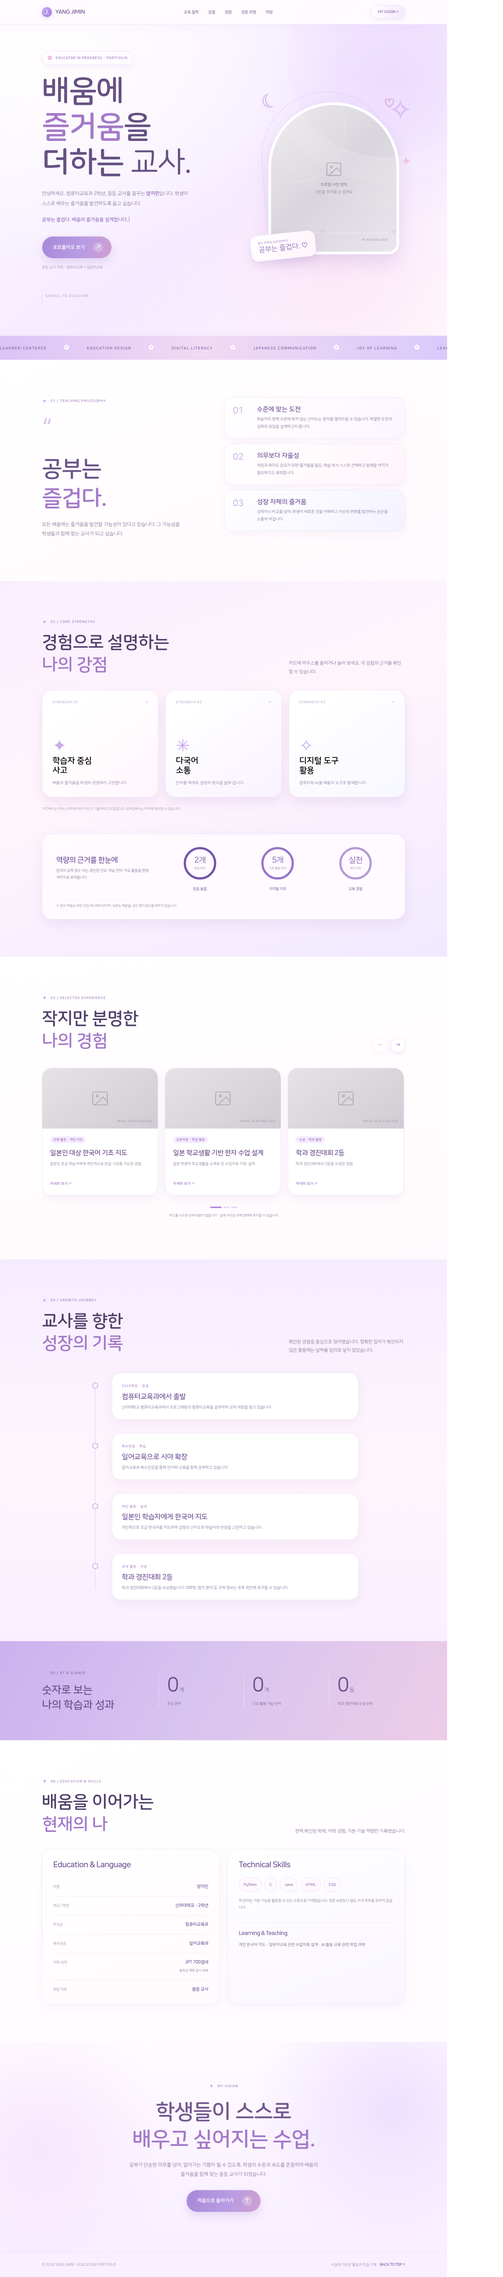
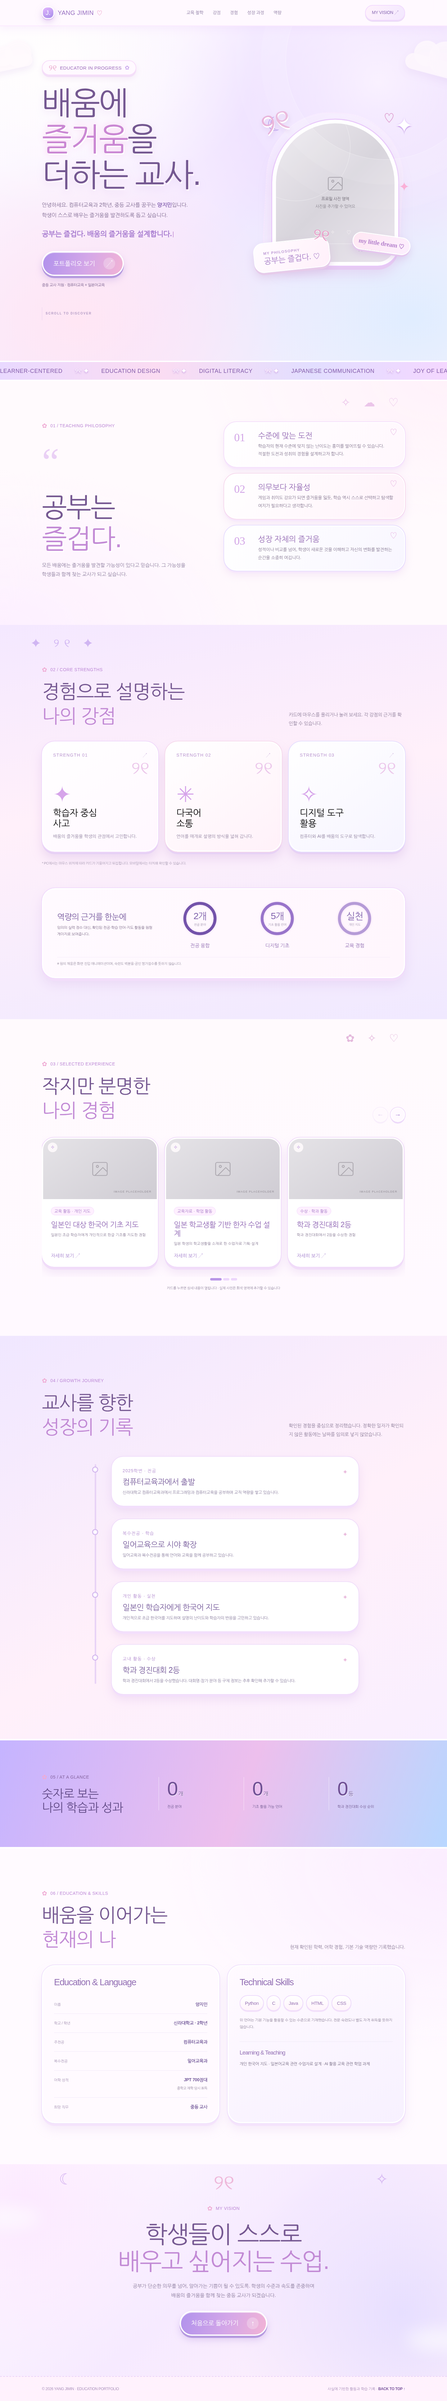
Add files via upload

diff --git a/index.html b/index.html
@@ -8,7 +8,7 @@
   <title>양지민 | 교육을 즐거움으로 만드는 예비 교사</title>
   <link rel="preconnect" href="https://fonts.googleapis.com" />
   <link rel="preconnect" href="https://fonts.gstatic.com" crossorigin />
-  <link href="https://fonts.googleapis.com/css2?family=Gowun+Dodum&family=Jua&family=Nunito:wght@400;500;600;700;800;900&display=swap" rel="stylesheet" />
+  <link href="https://fonts.googleapis.com/css2?family=Dongle:wght@400;700&family=Gaegu:wght@400;700&family=Gowun+Dodum&family=Jua&family=Nunito:wght@400;500;600;700;800;900&display=swap" rel="stylesheet" />
   <style>
     :root {
       --bg: #f8f6fc;
@@ -535,6 +535,244 @@
     .modal-content h2, .gauges-intro h3 { font-weight: 700; }
     @media (prefers-reduced-motion: reduce) { .dream-float { animation: none; } }
 
+
+    /*  ✧  DREAMY PASTEL CANDY EDITION  ✧
+        Extra-yumekawa makeover: puffy layers / bows / clouds / dreamy stickers.
+        All interactivity, responsive layout, and grey photo placeholders retained. */
+    :root {
+      --bg: #fff7ff;
+      --white: #ffffff;
+      --ink: #67517f;
+      --muted: #82718d;
+      --purple: #ad78dc;
+      --purple-dark: #78539b;
+      --lilac: #edddff;
+      --pale: #fbecff;
+      --line: #f3ddfb;
+      --shadow: 0 20px 50px rgba(173,121,217,.18), 0 6px 17px rgba(238,181,226,.13);
+      --serif: "Jua", "Arial Rounded MT Bold", "Malgun Gothic", sans-serif;
+      --sans: "Gowun Dodum", "Apple SD Gothic Neo", "Malgun Gothic", sans-serif;
+    }
+    body {
+      background: radial-gradient(circle at 15% 10%, #fff 0%, transparent 27%),
+                  radial-gradient(circle at 86% 25%, #faebff 0%, transparent 37%),
+                  linear-gradient(145deg, #fff9ff, #fbf0ff 55%, #fff9fd);
+      color: var(--ink);
+    }
+    .container { position: relative; }
+    .site-header { background: rgba(255,248,255,.88); border-bottom: 2px solid #fbe7ff; box-shadow: 0 9px 24px #e6bdf831; }
+    .nav { height: 82px; }
+    .logo { font-family: "Jua",sans-serif; font-weight: 400; font-size: 20px; color: #9870c1; letter-spacing: .015em; }
+    .logo::after { content: "♡"; font: 21px "Gaegu",sans-serif; margin-left: -2px; color: #ee9ec9; }
+    .logo-mark { width: 40px; height: 40px; background: linear-gradient(155deg,#e4b8ff,#a58be8); border: 3px solid white; border-radius: 17px; box-shadow: 0 4px 0 #e3c7f4, 0 9px 20px #cda7e680; }
+    .nav-contact { background: linear-gradient(115deg, #fff2fc, #f3e8ff); border: 2px solid #f2d8ff; box-shadow: 0 4px 0 #ecdcf7; font-family: "Jua",sans-serif; font-weight: 400; font-size: 14px; }
+    .nav-links a { font-family: "Jua", sans-serif; font-weight: 400; font-size: 14px; }
+    .nav-links a:hover { color: #ca79c8; }
+    .hero {
+      min-height: 760px;
+      background:
+        radial-gradient(ellipse at 11% 10%, #fffefe 0%, transparent 37%),
+        radial-gradient(ellipse at 84% 25%, #e8d9ff 0%, transparent 41%),
+        radial-gradient(ellipse at 17% 88%, #ffe6f4 0%, transparent 40%),
+        radial-gradient(ellipse at 92% 87%, #e0edff 0%, transparent 45%),
+        linear-gradient(130deg,#fffbff 0%,#f3e7ff 55%,#fff4fa 100%);
+      padding-top: 110px;
+      padding-bottom: 130px;
+      isolation: isolate;
+    }
+    .hero::before { z-index: -2; width: 960px; height: 960px; top: -300px; right: -260px; background: radial-gradient(circle,#fff9ffb8,transparent 64%); }
+    .hero::after { content: ""; pointer-events: none; position: absolute; z-index: 0; top: auto; left: 0; right: 0; bottom: -1px; height: 38px; background: radial-gradient(circle at 26px -12px, transparent 33px, #fff9ff 34px) 0 0/64px 66px repeat-x; opacity: .95; }
+    .dream-scene { position: absolute; inset: 0; z-index: -1; overflow: hidden; pointer-events: none; }
+    .fluffy-cloud { position: absolute; display: block; width: 165px; height: 48px; border-radius: 999px; background: #fffafdec; filter: drop-shadow(0 13px 12px #cbabe536); animation: cloud-float 9s ease-in-out infinite alternate; }
+    .fluffy-cloud::before,.fluffy-cloud::after { content:""; position:absolute; display:block; background: inherit; border-radius:50%; }
+    .fluffy-cloud::before { width: 77px; height: 77px; left: 19px; bottom: 18px; }
+    .fluffy-cloud::after { width: 103px; height: 103px; left: 64px; bottom: 4px; }
+    .cloud-a { left: -46px; top: 95px; opacity: .91; transform: rotate(-12deg) scale(.84); }
+    .cloud-b { right: -35px; top: 105px; opacity: .8; transform: rotate(15deg) scale(1.08); animation-delay:-4s; }
+    .cloud-c { right: 23%; bottom: 25px; opacity: .76; transform: scale(.70); animation-delay:-6s; }
+    @keyframes cloud-float { from { translate: 0 -8px; } to { translate: 12px 12px; } }
+    .dream-sparkle,.dream-heart { position:absolute; line-height:1; color:#d3acf1; text-shadow: 0 4px 0 #fff7ff, 0 0 12px #fff; animation: charm-pulse 4.5s ease-in-out infinite alternate; }
+    .sparkle-a { top:19%; left: 6%; font-size:44px; }
+    .sparkle-b { top:16%; right:34%; font-size:22px; color:#f5abc9; animation-delay:-2s; }
+    .sparkle-c { bottom:19%; left:45%; font-size:35px; color:#b1bdf5; animation-delay:-3s; }
+    .sparkle-d { bottom:20%; right:3%; font-size:58px; color:#ebb6ea; animation-delay:-1s; }
+    .heart-a { right:8%; top:38%; font-size:43px; color:#f4a6c9; animation-delay:-2s; }
+    .heart-b { left:3%; bottom:31%; font-size:29px; color:#bfa0f4; }
+    @keyframes charm-pulse { from { opacity:.42; scale:.85; rotate:-10deg; } to { opacity:1; scale:1.12; rotate:9deg; } }
+    .hero-layout { z-index:2; }
+    .hero-intro { font-family:"Jua",sans-serif; font-size: 15px; font-weight: 400; letter-spacing:.025em; color:#9b6dba; padding:11px 20px; border:2px solid #f7dafa; background:#fff9ffed; box-shadow: 0 6px 0 #f3dff8, 0 10px 20px #e4c9e854; }
+    .hero-intro::before { display:none; }
+    .hero-intro > span:first-child { font-family:"Gaegu",sans-serif; font-size:25px; line-height:0; color:#e8a4c9; }
+    .intro-flower { font-size:18px; color:#c9a7ed; }
+    .hero h1 { font-family: "Jua",sans-serif; font-weight:400; font-size: clamp(65px,7.1vw,104px); line-height:1.13; letter-spacing:-.042em; color:#745891; text-shadow: 3px 5px 0 #fff5ff, 0 9px 24px #d7b5e95e; }
+    .hero h1 em { font-family:"Jua",sans-serif; font-weight:400; }
+    .hero h1 .accent { color: #ca87d3; text-shadow:3px 4px 0 #fff, 0 0 23px #f9c9ee; }
+    .hero-description { font-size:17px; max-width:475px; color:#806b92; line-height:1.95; }
+    .type-line { font-family:"Gaegu",var(--sans); font-size: 23px; font-weight:700; color:#a477ce; min-height:41px; }
+    .primary-btn { font-family:"Jua",sans-serif; font-weight:400; font-size:20px; padding:17px 24px 17px 33px; border-radius:999px; border:4px solid #fff; background:linear-gradient(105deg,#b192ec 0%,#d4a7e8 54%,#f2b3d5 100%); box-shadow:0 7px 0 #b59adf,0 13px 22px #b692dd61, inset 0 2px 0 #ffffff98; }
+    .primary-btn:hover { background:linear-gradient(105deg,#a17ee6,#d997d5); box-shadow:0 5px 0 #a689d8,0 12px 26px #b692dd80; transform:translateY(2px); }
+    .primary-btn .arrow { width:38px; height:38px; background:#ffffff42; font-family:var(--sans); }
+    .hero-sub { color:#a58db1; font-weight:700; font-size:12px; }
+    .hero-art { padding:42px 22px 26px 40px; }
+    .hero-art::before { top:18px; left:18px; bottom:22px; right:8px; border:4px dotted #f8e9ff; border-radius:210px 210px 85px 85px; transform:rotate(3deg); background:linear-gradient(155deg,#ffffff4d,#ffeafa42); }
+    .hero-art::after { content:"✦"; top:26px; right:-26px; font-size:70px; color:#fff; text-shadow: 0 0 4px #d4aff8,0 5px 0 #d3b5ed; }
+    .portrait { height:470px; border:12px solid #fff; outline:3px solid #e8c8fa; background:linear-gradient(135deg,#eeeaf0,#d8d5dc 50%,#ebe6ee); border-radius:230px 230px 75px 75px; box-shadow:0 13px 0 #e6caf3,0 26px 42px #d7abe15c; }
+    .portrait::after { content:"♡     ✧     ♡"; position:absolute; bottom:80px; right:0; left:0; text-align:center; font-size:17px; color:#fffafa; opacity:.7; letter-spacing:16px; }
+    .portrait-label { border-color:#fff9; }
+    .hero-big-bow { position:absolute; z-index:5; left:4px; top:2px; font-family:"Gaegu",cursive; font-size:94px; line-height:1; color:#e8afd9; text-shadow:0 5px 0 white, 0 11px 15px #a97cc34d; transform:rotate(-18deg); animation:bow-bob 5s ease-in-out infinite alternate; }
+    @keyframes bow-bob { from { translate:0 -3px; rotate:-5deg; } to { translate:0 9px; rotate:3deg; } }
+    .hero-photo-sticker { position:absolute; z-index:4; right:-18px; bottom:69px; border:3px solid white; background:linear-gradient(120deg,#ffe7f3,#fceffe); box-shadow:0 5px 0 #e5c6ee,0 13px 25px #cdb0de77; font-family:"Gaegu",cursive; font-weight:700; font-size:20px; color:#b582cd; padding:7px 17px; border-radius:100px; transform:rotate(8deg); }
+    .art-note { left:-20px; bottom:13px; border:3px solid white; background:linear-gradient(130deg,#fffcff,#fff0fa); padding:24px 29px 17px; border-radius:31px; box-shadow:0 7px 0 #e6cbea,0 15px 29px #d4b2db7a; }
+    .art-note small { font-size:12px; }
+    .art-note strong { font-size:25px; color:#a57bc6; }
+    .art-note-bow { position:absolute; right:-8px; top:-35px; font-family:"Gaegu",cursive; color:#e99dc8; font-size:52px; line-height:1; transform:rotate(14deg); text-shadow:0 2px white; }
+    .dream-float-moon { font-size:62px; color:#b9a1ef; left:22px; top:0; }
+    .dream-float-star { color:#faabd4; right:-14px; top:41%; }
+    .dream-float-heart { color:#dc9acb; }
+    .scroll-marker { font-family:"Nunito",sans-serif; font-weight:900; color:#b29ac4; }
+    .marquee { padding:17px 0; border-top:4px solid #fff; border-bottom:4px solid #fff; color:#825ba9; background:linear-gradient(90deg,#e9d9ff,#fbdcf2 35%,#e2deff 70%,#f4d7ff); box-shadow:0 5px 0 #f2e5fa; }
+    .marquee-item { font: 18px "Jua",sans-serif; letter-spacing:.04em; padding-right:40px; }
+    .marquee-item::after { content:"୨୧ ✦"; color:white; font-size:20px; padding-left:40px; filter:drop-shadow(0 2px 2px #c59fdf); }
+    .section { padding-top:132px; padding-bottom:132px; }
+    .section-decoration { pointer-events:none; position:absolute; z-index:0; top:36px; right:max(30px,calc((100% - 1160px)/2)); font-family:"Gaegu",sans-serif; font-size:37px; color:#e5b5e4; letter-spacing:16px; opacity:.75; white-space:nowrap; animation:ornament-waver 7s ease-in-out infinite alternate; }
+    .section-decoration-b { color:#c4a4ef; left:7%; right:auto; top:25px; }
+    .section-decoration-c { color:#dba4d2; font-size:34px; top:30px; }
+    @keyframes ornament-waver { to { translate: 0 11px; } }
+    .eyebrow { font-family:"Jua",sans-serif; font-size:14px; font-weight:400; letter-spacing:.04em; color:#bb86d5; }
+    .eyebrow::before { content:"✿"; font-size:20px; color:#efabd4; }
+    .section-head h2,.large-quote,.closing-section h2,.stats-intro h2 { font-family:"Jua",sans-serif; font-weight:400; color:#765992; letter-spacing:-.03em; }
+    .section-head h2 { font-size:clamp(38px,4.6vw,61px); }
+    .section-head p { color:#8d7d99; }
+    .accent { color:#c28ad5; }
+    .philosophy-section { background:radial-gradient(ellipse at 1% 100%,#fdf0ff,transparent 45%),radial-gradient(ellipse at 100% 0%,#fff2fa,transparent 40%),#fffafd; }
+    .quote-mark { color:#ead0f5; font-family:"Gaegu",cursive; font-size:125px; }
+    .large-quote { font-size:clamp(60px,6vw,86px); line-height:1.17; text-shadow:3px 4px 0 #fff; }
+    .quote-summary { font-size:16px; }
+    .principles { gap:21px; }
+    .principle { position:relative; border:3px solid #fff; outline:2px solid #f4ddfb; border-radius:40px; padding:26px 29px; box-shadow:0 8px 0 #f7e8fc,0 13px 28px #ddbde549; background:linear-gradient(125deg,#fff,#fff7fd); }
+    .principle:nth-child(2) { outline-color:#f6d7ec; background:linear-gradient(125deg,#fff,#fff2fa); }
+    .principle:nth-child(3) { outline-color:#e5dbff; background:linear-gradient(125deg,#fff,#f8f6ff); }
+    .principle::after { content:"♡"; font:27px "Gaegu",cursive; position:absolute; right:22px; top:12px; color:#eac0e7; }
+    .principle-num { color:#d3a6e7; font:36px "Gaegu",cursive; }
+    .principle h3 { font:25px "Jua",sans-serif; font-weight:400; color:#956bb4; }
+    .principle p { font-size:14px; color:#83768f; }
+    .strengths-section { background:linear-gradient(170deg,#f4e8ff 0%,#fff0fa 43%,#f0e9ff 100%); }
+    .flip-card { height:355px; }
+    .flip-face { border-radius:41px; border:4px solid #fff; padding:32px; box-shadow:0 8px 0 #e7d1f5,0 21px 32px #cea9df57; }
+    .flip-front { background:linear-gradient(145deg,#fff,#fff7ff); outline:2px solid #efd7fb; }
+    .flip-card:nth-child(2) .flip-front { background:linear-gradient(145deg,#fff,#fff1f9); outline-color:#f6d8eb; }
+    .flip-card:nth-child(3) .flip-front { background:linear-gradient(145deg,#fff,#f6f4ff); outline-color:#e4ddff; }
+    .flip-front::after { content:"୨୧"; font:57px "Gaegu",cursive; position:absolute; top:49px; right:25px; color:#ecc8eb; }
+    .flip-back { background:linear-gradient(160deg,#a689de 0%,#bf99e2 54%,#e5addb 100%); }
+    .flip-id { font:14px "Jua",sans-serif; font-weight:400; color:#b995cf; }
+    .flip-symbol { font-family:"Gaegu",cursive; font-size:70px; color:#d6a4ea; }
+    .flip-front h3,.flip-back h3 { font:29px "Jua",sans-serif; font-weight:400; }
+    .flip-front p,.flip-back p { font-size:14px; }
+    .gauges-wrap { border:4px solid white; outline:2px solid #f0d9fc; border-radius:43px; background:linear-gradient(115deg,#fffaff,#fff6fd); box-shadow:0 9px 0 #f2defa,0 20px 36px #cfade34b; }
+    .gauges-intro h3 { font:26px "Jua",sans-serif; font-weight:400; }
+    .gauge .track { stroke:#f4e5f9; }
+    .gauge .progress { stroke-width:9; filter: drop-shadow(0 0 3px #e5beec9c); }
+    .gauge-center strong { font:30px "Jua",sans-serif; font-weight:400; }
+    .gauge-label { font-family:"Jua",sans-serif; font-weight:400; font-size:16px; color:#9471b4; }
+    .experience-section { background:linear-gradient(#fffafd,#fff9ff); }
+    .circle-btn { border:3px solid white; outline:2px solid #efdafb; box-shadow:0 5px 0 #eddbfa; background:#fff9ff; color:#a982d4; }
+    .circle-btn:hover:not(:disabled) { background:#b596e1; }
+    .exp-card { border:4px solid white; outline:2px solid #f0dafa; border-radius:39px; box-shadow:0 9px 0 #f1ddf9,0 18px 32px #d2aee449; }
+    .exp-card:hover { transform:translateY(-9px) rotate(-1deg); box-shadow:0 12px 0 #edcff2,0 25px 38px #d2aee46b; }
+    .exp-content h3 { font:24px "Jua",sans-serif; font-weight:400; color:#9168b5; }
+    .exp-tag { border:1px solid #efd5fc; background:#fff0ff; color:#a277c5; font-family:"Jua",sans-serif; font-size:13px; font-weight:400; }
+    .exp-photo::before { content:"✧"; display:grid; place-items:center; position:absolute; z-index:1; top:12px; left:15px; width:31px; height:31px; background:#fffafcdc; border-radius:50%; color:#b88fda; font-size:17px; }
+    .card-link { font:15px "Jua",sans-serif; font-weight:400; }
+    .carousel-dot { height:8px; border-radius:999px; background:#edd7fc; }
+    .carousel-dot.active { background:#b996e7; }
+    .timeline-section { background:linear-gradient(150deg,#f0e7ff,#fff0fa 56%,#f9efff); }
+    .timeline-rail { width:5px; background:#e8d3f6; border-radius:99px; }
+    .timeline-line { background:linear-gradient(#b699ed,#e5acd9); }
+    .timeline-body { border:4px solid #fff; outline:2px solid #efdcfa; border-radius:37px; box-shadow:0 8px 0 #f3dffc,0 16px 30px #cba8e145; }
+    .timeline-body::before { content:"✦"; color:#e9b9dc; float:right; font-size:20px; }
+    .timeline-time { font-family:"Jua",sans-serif; font-size:14px; font-weight:400; }
+    .timeline-body h3 { font:25px "Jua",sans-serif; font-weight:400; }
+    .stats-section { background:linear-gradient(110deg,#c5b4ff,#edbfed 54%,#b8d7ff); color:#604985; padding:106px 0; border-top:5px solid #fff; border-bottom:5px solid #fff; }
+    .stats-section::before { border-color:#fff8; }
+    .stats-intro h2 { color:#624b87; font:38px "Jua",sans-serif; }
+    .stat-value { font-family:"Jua",sans-serif; font-weight:400; color:#6f4f94; text-shadow:1px 2px 0 #ffffffb5; }
+    .stat-unit,.stat-label { color:#765f95; }
+    .education-section { background:radial-gradient(ellipse at 100% 5%,#fbedff,transparent 45%),#fffaff; }
+    .information-card { border:4px solid #fff; outline:2px solid #efdffc; border-radius:42px; background:#fffaff; box-shadow:0 9px 0 #f5e4fc,0 20px 33px #d7bde641; }
+    .information-card:nth-child(2) { background:linear-gradient(155deg,#fffaff,#f7f1ff); }
+    .information-card h3 { font:29px "Jua",sans-serif; font-weight:400; color:#9370b4; }
+    .skill-tag { background:linear-gradient(#fff,#fff3fb); border:2px solid #ecd7fb; border-radius:100px; font-family:"Jua",sans-serif; font-size:15px; font-weight:400; color:#9874b4; box-shadow:0 3px 0 #f5e4fb; }
+    .closing-section { position:relative; overflow:hidden; background:radial-gradient(circle at 5% 20%,#fce9ff,transparent 34%),radial-gradient(circle at 90% 70%,#e7dfff,transparent 39%),linear-gradient(140deg,#fffaff,#f6eaff 50%,#fff1fb); }
+    .closing-section::before,.closing-section::after { content:""; width:200px; height:70px; position:absolute; background:#fff9; border-radius:50%; filter:blur(26px); }
+    .closing-section::before { top:20%; left:-70px; }
+    .closing-section::after { bottom:12%; right:-70px; }
+    .closing-decor { display:flex; gap:75px; position:absolute; inset:20px 0 auto; justify-content:space-around; pointer-events:none; font:49px "Gaegu",sans-serif; color:#d2b0f0; opacity:.9; }
+    .closing-decor span:nth-child(2) { color:#edb3d6; font-size:66px; }
+    .closing-section h2 { font:clamp(47px,6vw,76px) "Jua",sans-serif; font-weight:400; }
+    .footer { background:#fff2fd; border-top:2px dashed #e9cff8; }
+    .modal-panel { border:5px solid white; outline:2px solid #eacff6; border-radius:43px; }
+    .modal-content h2 { font:36px "Jua",sans-serif; font-weight:400; }
+    .modal-caution { border-radius:23px; }
+    .mobile-menu-button { border-radius:16px; background:#fff7ff; }
+    @media (max-width:1050px) { .hero h1 { font-size:clamp(58px,7vw,85px); } .hero-art { padding-left:23px; } .hero-big-bow { font-size:70px; } }
+    @media (max-width:760px) {
+      .hero { min-height:0; padding:78px 0 98px; }
+      .hero-layout { gap:40px; }
+      .hero h1 { font-size:clamp(54px,12.2vw,77px); }
+      .hero-intro { font-size:12px; padding:9px 14px; }
+      .hero-description { font-size:15px; }
+      .type-line { font-size:20px; min-height:38px; }
+      .primary-btn { font-size:18px; padding:14px 18px 14px 25px; }
+      .portrait { height:410px; }
+      .hero-art { padding:24px 16px 26px 24px; }
+      .hero-big-bow { left:0; top:-7px; font-size:67px; }
+      .hero-photo-sticker { right:-2px; font-size:17px; padding:5px 12px; bottom:70px; }
+      .art-note { left:0; bottom:10px; padding:19px 19px 12px; }
+      .art-note strong { font-size:21px; }
+      .art-note-bow { font-size:41px; }
+      .fluffy-cloud { transform:scale(.62); }
+      .cloud-c { right:-25px; bottom:12px; }
+      .sparkle-a { left:75%; top:10%; }
+      .sparkle-c { left:8%; bottom:21%; }
+      .section { padding-top:92px; padding-bottom:92px; }
+      .section-decoration { top:12px; right:12px; font-size:22px; letter-spacing:9px; }
+      .section-decoration-b { left:auto; }
+      .section-head h2 { font-size:40px; }
+      .large-quote { font-size:61px; }
+      .principle { border-radius:32px; padding:20px 22px; }
+      .principle h3 { font-size:23px; }
+      .flip-card { height:312px; }
+      .flip-face { padding:25px; border-radius:34px; }
+      .flip-front h3,.flip-back h3 { font-size:28px; }
+      .gauges-wrap { border-radius:35px; }
+      .timeline-body { border-radius:29px; }
+      .stats-intro h2 { font-size:34px; }
+      .stat-value { font-size:42px; }
+      .information-card { border-radius:33px; }
+      .closing-section h2 { font-size:clamp(39px,8vw,58px); }
+      .closing-decor { gap:20px; font-size:33px; }
+      .closing-decor span:nth-child(2) { font-size:44px; }
+    }
+    @media (max-width:420px) {
+      .nav-contact { display:none; }
+      .nav { justify-content: space-between; }
+      .mobile-menu-button { margin-left:auto; flex-shrink:0; }
+      .logo { min-width:0; }
+      .hero h1 { font-size:clamp(49px,13vw,58px); }
+      .hero-intro { font-size:11px; }
+      .portrait { height:350px; }
+      .hero-photo-sticker { font-size:15px; }
+      .hero-big-bow { font-size:60px; }
+      .art-note strong { font-size:19px; }
+      .principle { padding:21px 18px; }
+      .principle h3 { font-size:21px; }
+      .flip-card { height:305px; }
+      .flip-front h3,.flip-back h3 { font-size:25px; }
+      .gauge-center strong { font-size:23px; }
+    }
+    @media (prefers-reduced-motion:reduce) {
+      .fluffy-cloud,.dream-sparkle,.dream-heart,.hero-big-bow,.section-decoration { animation:none !important; }
+    }
   </style>
 </head>
 <body>
@@ -559,13 +797,19 @@
       <a href="#experience">경험</a>
       <a href="#timeline">성장 과정</a>
       <a href="#education">역량</a>
+      <a href="#closing">교사로서의 목표</a>
     </nav>
   </header>
   <main id="main">
     <section class="hero" id="top" aria-labelledby="heroHeading">
+      <div class="dream-scene" aria-hidden="true">
+        <span class="fluffy-cloud cloud-a"></span><span class="fluffy-cloud cloud-b"></span><span class="fluffy-cloud cloud-c"></span>
+        <span class="dream-sparkle sparkle-a">✧</span><span class="dream-sparkle sparkle-b">✦</span><span class="dream-sparkle sparkle-c">⋆</span>
+        <span class="dream-sparkle sparkle-d">✧</span><span class="dream-heart heart-a">♡</span><span class="dream-heart heart-b">♡</span>
+      </div>
       <div class="container hero-layout">
         <div>
-          <div class="hero-intro">EDUCATOR IN PROGRESS · PORTFOLIO</div>
+          <div class="hero-intro"><span aria-hidden="true">୨୧</span> EDUCATOR IN PROGRESS <span class="intro-flower" aria-hidden="true">✿</span></div>
           <h1 id="heroHeading">배움에<br /><span class="accent">즐거움</span>을<br />더하는 <em>교사.</em></h1>
           <p class="hero-description">안녕하세요. 컴퓨터교육과 2학년, 중등 교사를 꿈꾸는 <strong>양지민</strong>입니다. 학생이 스스로 배우는 즐거움을 발견하도록 돕고 싶습니다.</p>
           <p class="type-line"><span id="typingText" aria-label="공부는 즐겁다. 배움의 즐거움을 설계합니다."></span><span class="cursor" aria-hidden="true"></span></p>
@@ -574,6 +818,8 @@
           <div class="scroll-marker">Scroll to discover</div>
         </div>
         <div class="hero-art" aria-label="프로필 사진을 넣을 수 있는 회색 자리표시자">
+          <span class="hero-big-bow" aria-hidden="true">୨୧</span>
+          <span class="hero-photo-sticker" aria-hidden="true">my little dream ♡</span>
           <div class="portrait">
             <div class="portrait-placeholder">
               <svg width="54" height="54" viewBox="0 0 24 24" fill="none" stroke="currentColor" stroke-width="1.2" stroke-linecap="round" stroke-linejoin="round" aria-hidden="true"><rect x="2" y="3" width="20" height="18" rx="2"/><circle cx="8.5" cy="8.5" r="1.5"/><path d="m21 15-5-5L5 21"/></svg>
@@ -584,7 +830,7 @@
           <span class="dream-float dream-float-moon" aria-hidden="true">☾</span>
           <span class="dream-float dream-float-star" aria-hidden="true">✦</span>
           <span class="dream-float dream-float-heart" aria-hidden="true">♡</span>
-          <div class="art-note"><small>MY PHILOSOPHY</small><strong>공부는 즐겁다. ♡</strong></div>
+          <div class="art-note"><span class="art-note-bow" aria-hidden="true">୨୧</span><small>MY PHILOSOPHY</small><strong>공부는 즐겁다. ♡</strong></div>
         </div>
       </div>
     </section>
@@ -595,6 +841,7 @@
       </div>
     </div>
     <section class="section philosophy-section" id="philosophy" aria-labelledby="philosophyHeading">
+      <div class="section-decoration section-decoration-a" aria-hidden="true">✧ ☁ ♡</div>
       <div class="container philosophy-grid">
         <div class="reveal">
           <div class="eyebrow">01 / Teaching Philosophy</div>
@@ -610,6 +857,7 @@
       </div>
     </section>
     <section class="section strengths-section" id="strengths" aria-labelledby="strengthsHeading">
+      <div class="section-decoration section-decoration-b" aria-hidden="true">✦ ୨୧ ✦</div>
       <div class="container">
         <div class="section-head reveal"><div><div class="eyebrow">02 / Core Strengths</div><h2 id="strengthsHeading">경험으로 설명하는<br /><span class="accent">나의 강점</span></h2></div><p>카드에 마우스를 올리거나 눌러 보세요. 각 강점의 근거를 확인할 수 있습니다.</p></div>
         <div class="strength-grid">
@@ -628,6 +876,7 @@
       </div>
     </section>
     <section class="section experience-section" id="experience" aria-labelledby="experienceHeading">
+      <div class="section-decoration section-decoration-c" aria-hidden="true">✿ ✧ ♡</div>
       <div class="container">
         <div class="section-head reveal"><div><div class="eyebrow">03 / Selected Experience</div><h2 id="experienceHeading">작지만 분명한<br /><span class="accent">나의 경험</span></h2></div><div class="carousel-controls"><button type="button" class="circle-btn" id="prevExperience" aria-label="이전 경험 카드">←</button><button type="button" class="circle-btn" id="nextExperience" aria-label="다음 경험 카드">→</button></div></div>
         <div class="carousel-viewport" id="experienceViewport" tabindex="0" aria-label="경험 슬라이드, 좌우로 스크롤할 수 있습니다"><div class="carousel-track" id="experienceTrack"></div></div>
@@ -657,7 +906,8 @@
         <div class="information-card reveal"><h3>Technical Skills</h3><div class="skill-tags"><span class="skill-tag">Python</span><span class="skill-tag">C</span><span class="skill-tag">Java</span><span class="skill-tag">HTML</span><span class="skill-tag">CSS</span></div><p class="skills-description">위 언어는 기본 기능을 활용할 수 있는 수준으로 기재했습니다. 전문 숙련도나 별도 자격 취득을 뜻하지 않습니다.</p><div style="height:1px;background:#eee8f5;margin:35px 0 25px"></div><h3 style="font-size:18px;margin-bottom:12px">Learning & Teaching</h3><p style="font-size:13px;color:#766b83;margin:0;line-height:2">개인 한국어 지도 · 일본어교육 관련 수업자료 설계 · AI 활용 교육 관련 학업 과제</p></div>
       </div>
     </div></section>
-    <section class="closing-section" id="closing" aria-labelledby="closingHeading"><div class="container reveal"><div class="eyebrow">My Vision</div><h2 id="closingHeading">학생들이 스스로<br /><span class="accent">배우고 싶어지는 수업.</span></h2><p>공부가 단순한 의무를 넘어, 알아가는 기쁨이 될 수 있도록. 학생의 수준과 속도를 존중하며 배움의 즐거움을 함께 찾는 중등 교사가 되겠습니다.</p><a class="primary-btn" style="margin-top:35px" href="#top">처음으로 돌아가기 <span class="arrow" aria-hidden="true">↑</span></a></div></section>
+    <section class="closing-section" id="closing" aria-labelledby="closingHeading">
+      <div class="closing-decor" aria-hidden="true"><span>☾</span><span>୨୧</span><span>✧</span></div><div class="container reveal"><div class="eyebrow">My Vision</div><h2 id="closingHeading">학생들이 스스로<br /><span class="accent">배우고 싶어지는 수업.</span></h2><p>공부가 단순한 의무를 넘어, 알아가는 기쁨이 될 수 있도록. 학생의 수준과 속도를 존중하며 배움의 즐거움을 함께 찾는 중등 교사가 되겠습니다.</p><a class="primary-btn" style="margin-top:35px" href="#top">처음으로 돌아가기 <span class="arrow" aria-hidden="true">↑</span></a></div></section>
   </main>
   <footer class="footer"><div class="container footer-inner"><span>© 2026 YANG JIMIN · EDUCATION PORTFOLIO</span><span>사실에 기반한 활동과 학습 기록 · <a href="#top">BACK TO TOP ↑</a></span></div></footer>
   <div class="modal" id="experienceModal" role="dialog" aria-modal="true" aria-labelledby="modalTitle" aria-hidden="true"><div class="modal-backdrop" id="modalBackdrop"></div><div class="modal-panel" id="modalPanel" tabindex="-1"><button class="modal-close" id="modalClose" type="button" aria-label="상세 창 닫기">×</button><div class="modal-top" aria-label="사진을 넣을 회색 영역">사진 / 결과물 이미지 영역</div><div class="modal-content"><span class="exp-tag" id="modalTag"></span><h2 id="modalTitle"></h2><p class="modal-desc" id="modalDesc"></p><div class="modal-detail"><h3>나의 경험</h3><p id="modalRole"></p></div><div class="modal-detail"><h3>포트폴리오에서 강조할 점</h3><p id="modalEvidence"></p></div><div class="modal-caution" id="modalNote"></div></div></div></div>
